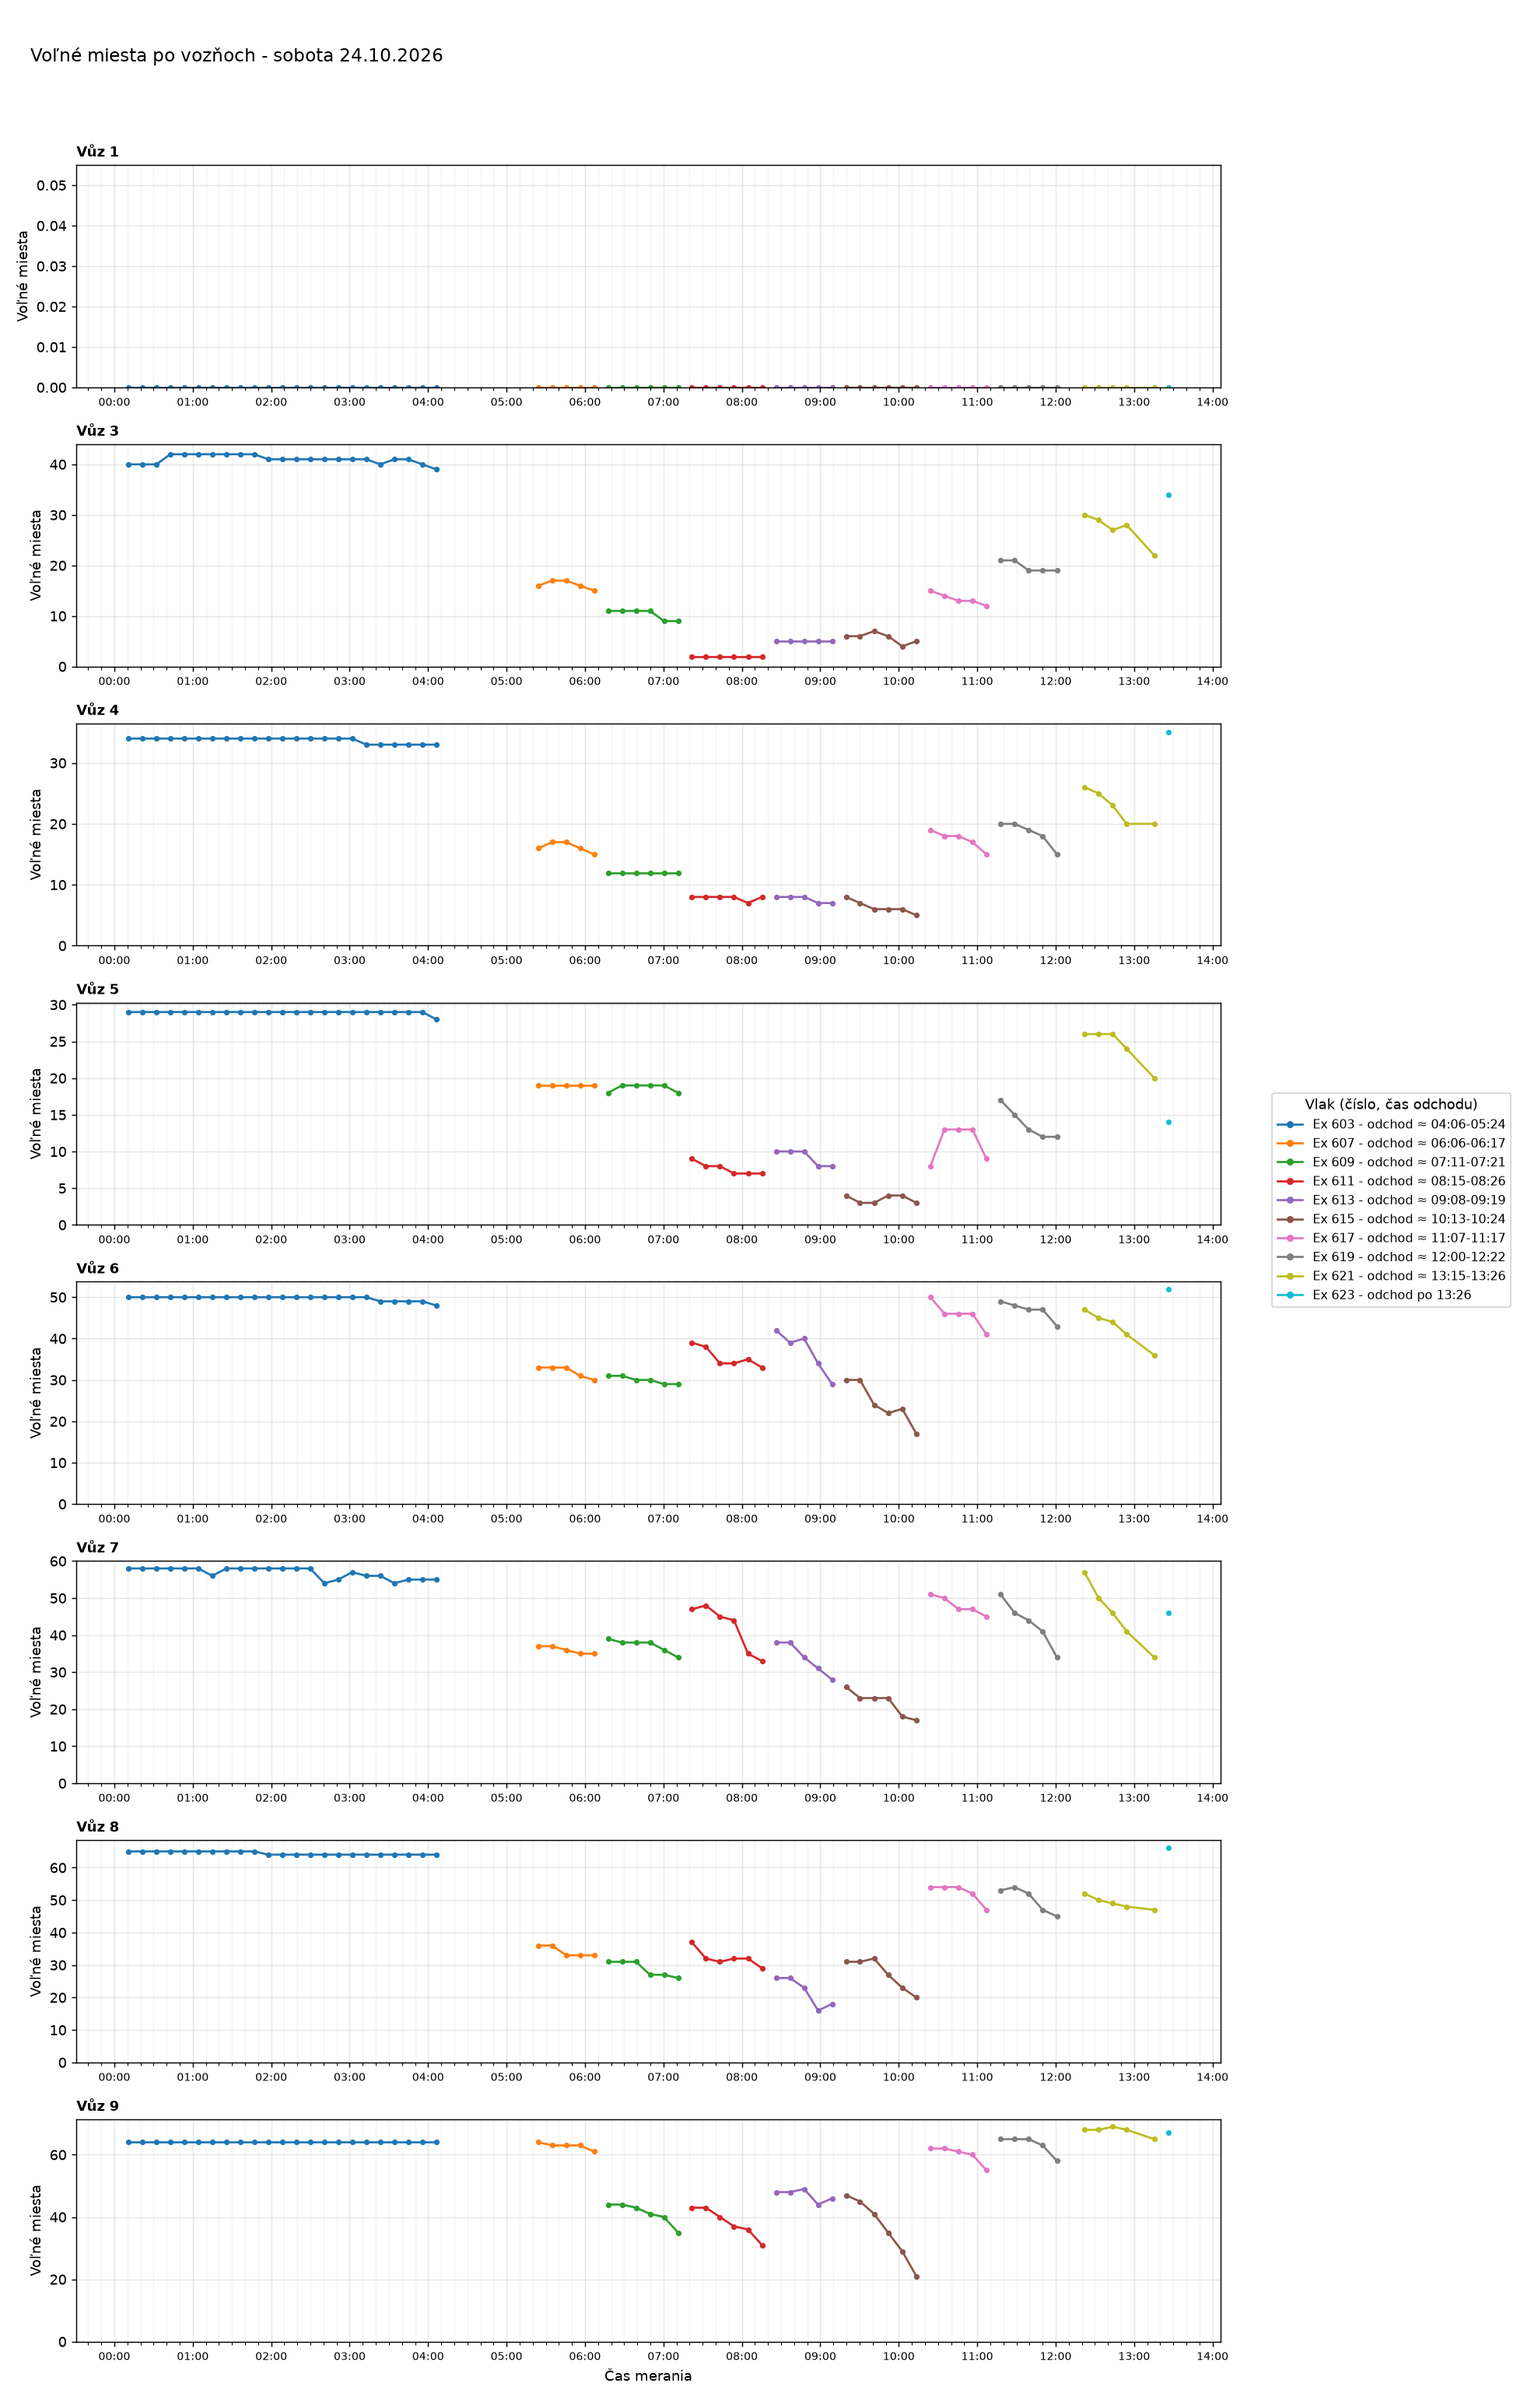
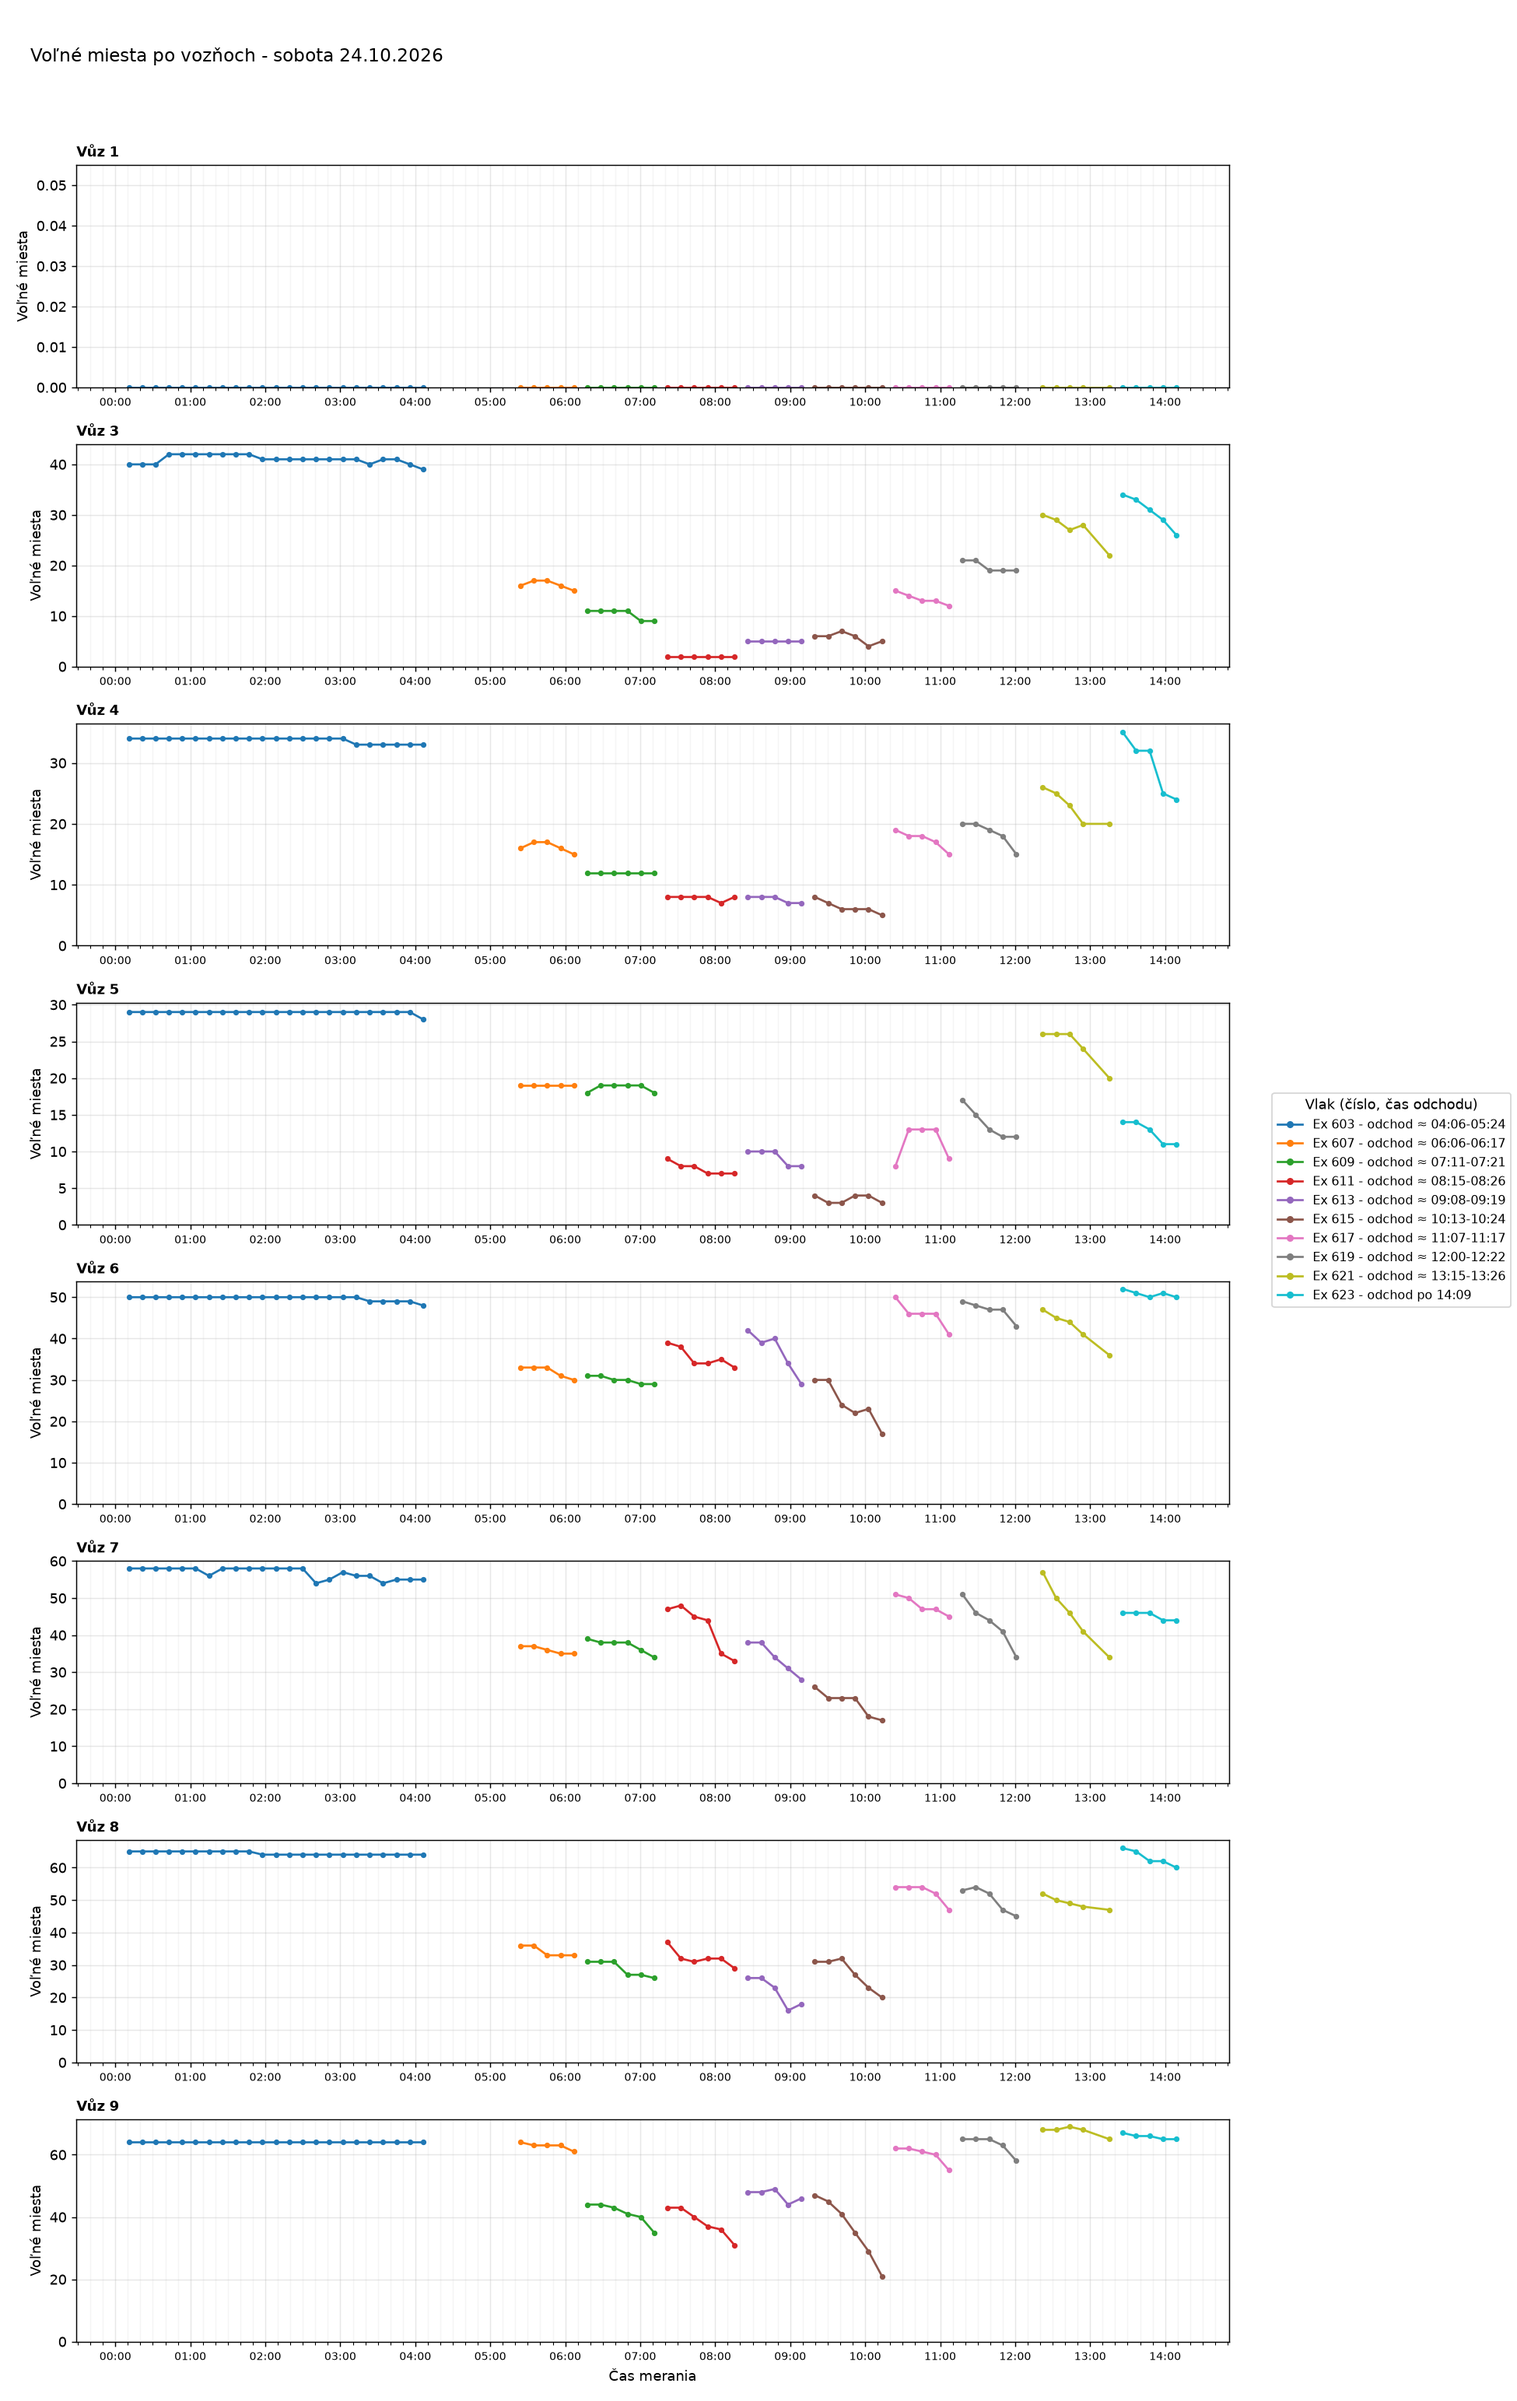
Aktualizácia grafov 2026-10-24 14:29

diff --git a/index.html b/index.html
@@ -35,7 +35,7 @@ h2.oddiel{margin:36px 0 0;font-size:1.4rem}
 <body>
 <main>
 <h1>Voľné miesta vo vlakoch</h1>
-<p class="muted">Posledné meranie: 24.10.2026 13:26 ·
+<p class="muted">Posledné meranie: 24.10.2026 14:09 ·
 <a href="data/obsadenost_data.csv">stiahnuť dáta (CSV)</a></p>
 <nav class="nav"><a href="#suhrn">Súhrn</a><a href="#statistiky">Štatistiky</a><a href="#historia">História grafov</a></nav>
 
@@ -44,7 +44,7 @@ h2.oddiel{margin:36px 0 0;font-size:1.4rem}
 <div class="tablewrap"><table>
 <thead><tr><th>Deň</th><th>Meraní</th><th>Vlakov</th><th>Čas meraní</th></tr></thead>
 <tbody>
-<tr><td><a href="#d2026-10-24">sobota 24.10.2026</a></td><td>67</td><td>10</td><td>00:10-13:26</td></tr>
+<tr><td><a href="#d2026-10-24">sobota 24.10.2026</a></td><td>71</td><td>10</td><td>00:10-14:09</td></tr>
 <tr><td><a href="#d2026-10-23">piatok 23.10.2026</a></td><td>64</td><td>13</td><td>07:25-23:49</td></tr>
 <tr><td><a href="#d2026-10-22">štvrtok 22.10.2026</a></td><td>80</td><td>11</td><td>00:08-16:10</td></tr>
 <tr><td><a href="#d2026-10-21">streda 21.10.2026</a></td><td>96</td><td>15</td><td>00:10-23:58</td></tr>
